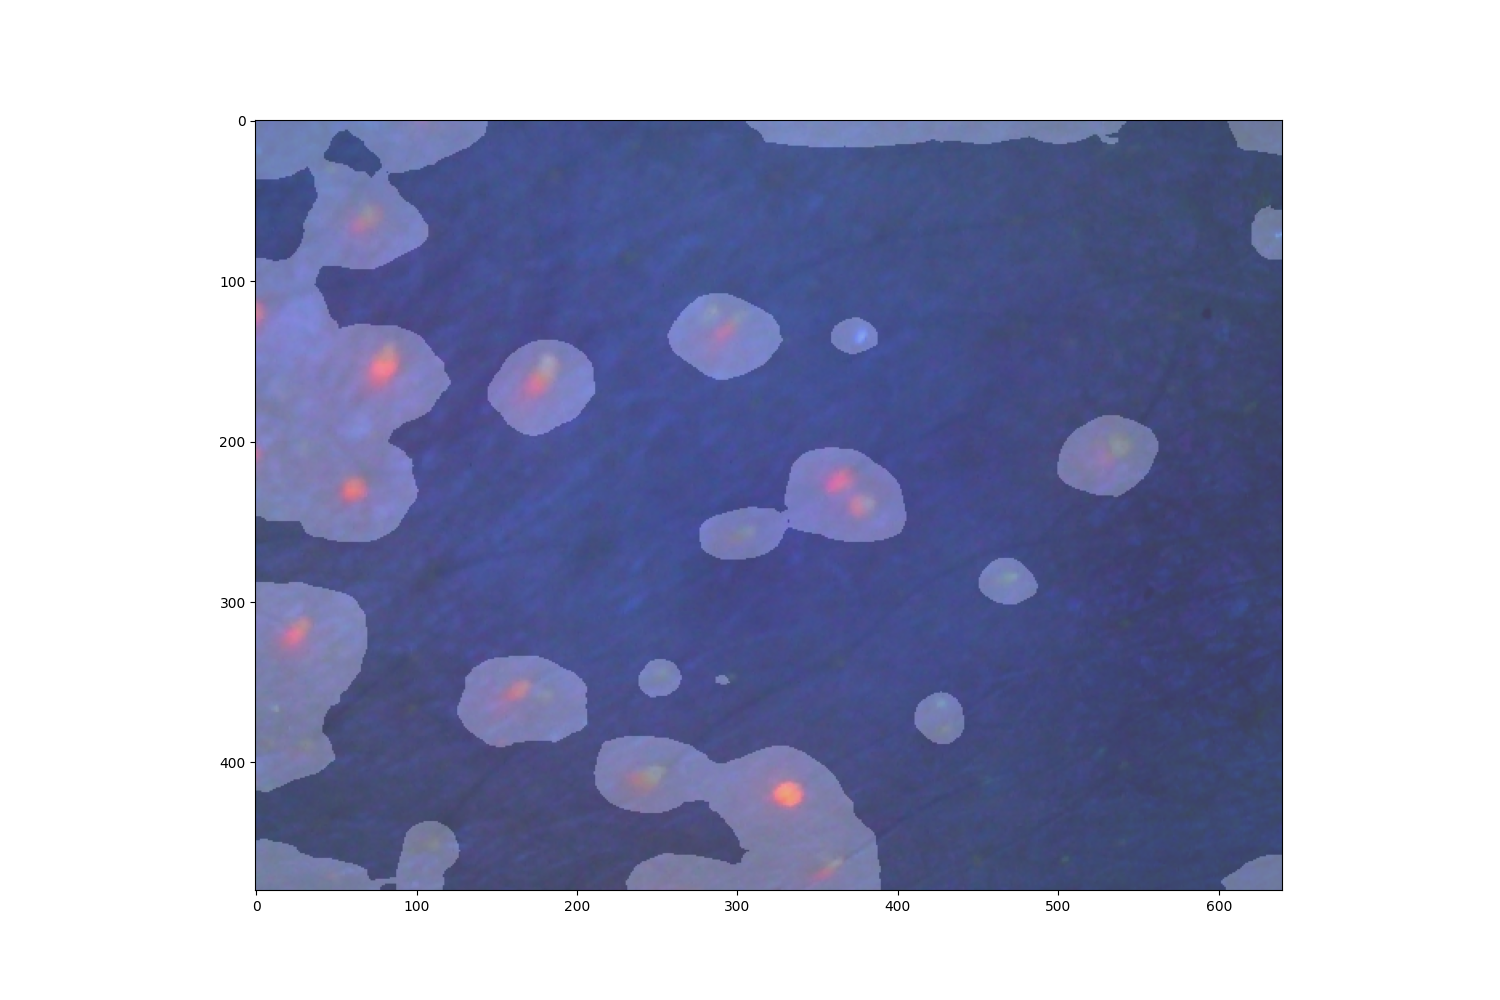
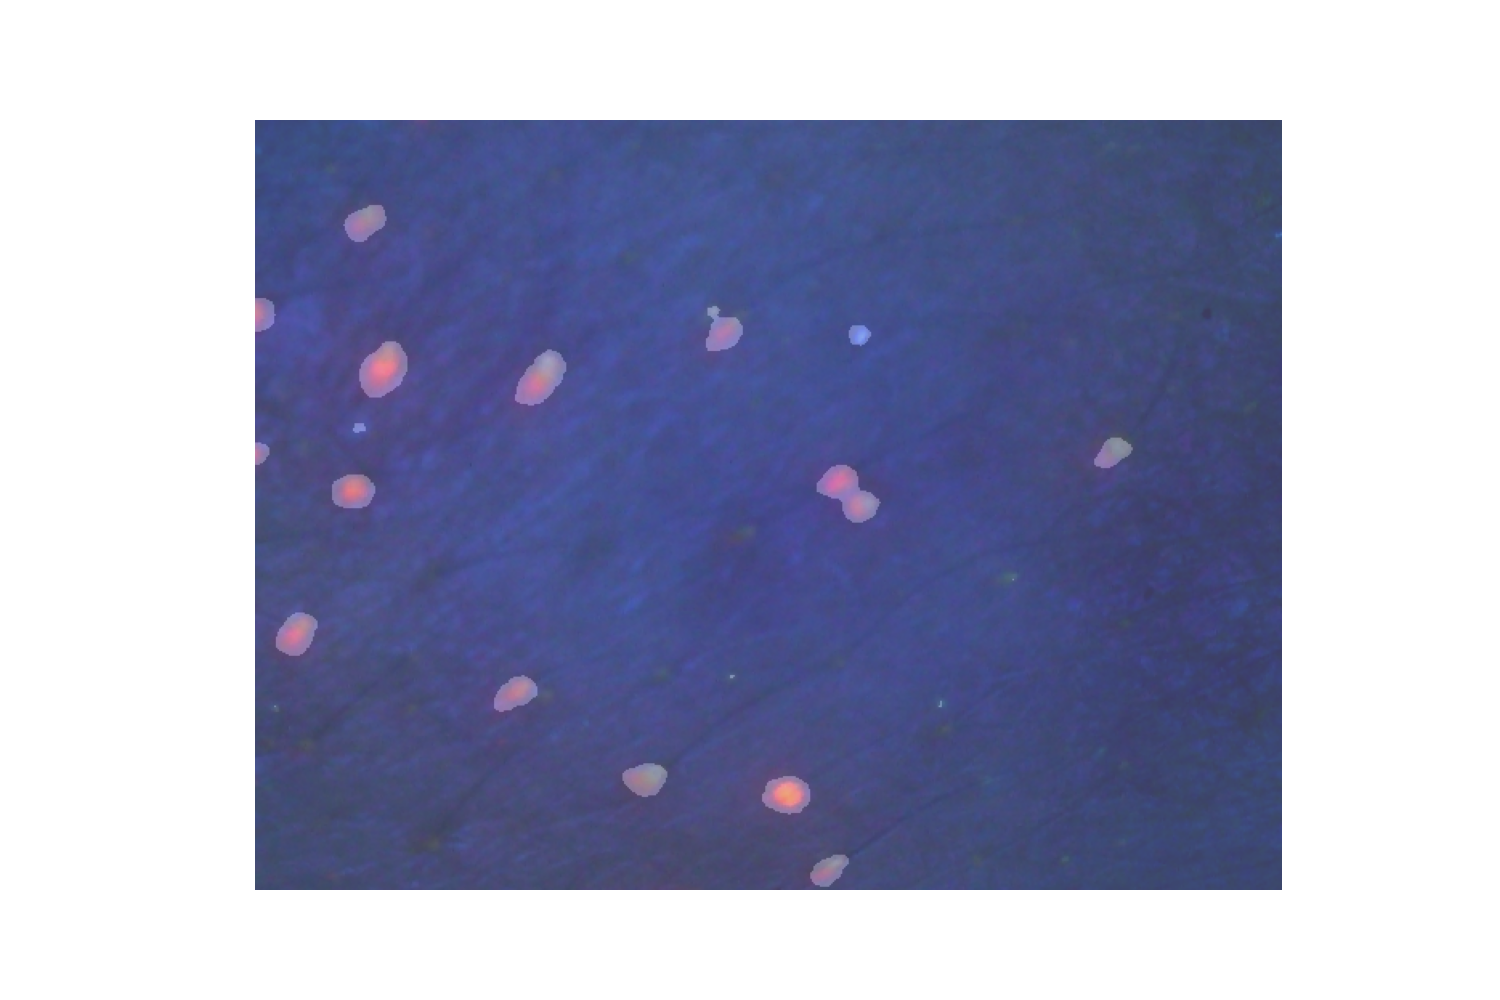
✨ Feat: update inference script for memory profiling and adjust model checkpoint; remove outdated output images

diff --git a/examples/run_semantic_segmentation_inference.py b/examples/run_semantic_segmentation_inference.py
@@ -1,52 +1,71 @@
+import os
+import resource
+
 import matplotlib.pyplot as plt
 import numpy as np
+import psutil
 import torch
 from PIL import Image
 from transformers import AutoImageProcessor, AutoModelForSemanticSegmentation
 
 SKIN_PALETTE = [
     # Skin palette that maps each class to RGB values.
-    [220, 220, 220],  # background
-    [120, 120, 120],  # skin
+    [120, 120, 120],  # background
+    [220, 220, 220],  # skin
 ]
 
-# Load image
-image = Image.open("examples/inputs/acne.jpg")
+# Profiling setup
+process = psutil.Process(os.getpid())
+print(f"Memory before loading model: {process.memory_info().rss / (1024**2):.2f} MB")
 
-# Load model and image processor
-device = "cuda"
-checkpoint = "checkpoints/segformer-b5-acne-reduce-labels"
+# Use CPU for inference
+device = "cpu"
+checkpoint = "checkpoints/segformer-b5-acne-reduce-labels-focal+dice"
 
-model = AutoModelForSemanticSegmentation.from_pretrained(checkpoint, device_map=device)
+# Load model and processor
+model = AutoModelForSemanticSegmentation.from_pretrained(checkpoint).to(device)
 image_processor = AutoImageProcessor.from_pretrained(checkpoint)
+print(f"Memory after loading model: {process.memory_info().rss / (1024**2):.2f} MB")
 
-# Run inference on image
+# Load and preprocess image
+image = Image.open("examples/inputs/acne.jpg")
 inputs = image_processor(images=[image], return_tensors="pt").to(device)
+print(f"Memory after preprocessing: {process.memory_info().rss / (1024**2):.2f} MB")
+
+# Run inference
 with torch.no_grad():
     outputs = model(**inputs)
     logits = outputs.logits
+print(f"Memory after inference: {process.memory_info().rss / (1024**2):.2f} MB")
 
+# Report peak RAM usage (ru_maxrss is in KB on Linux)
+peak_kb = resource.getrusage(resource.RUSAGE_SELF).ru_maxrss
+peak_mb = peak_kb / 1024
+print(f"Peak memory usage: {peak_mb:.2f} MB")
+
+# Post-process segmentation map
 predicted_segmentation_map = image_processor.post_process_semantic_segmentation(
     outputs, target_sizes=[image.size[::-1]]
 )[0]
 predicted_segmentation_map = predicted_segmentation_map.cpu().numpy()
-print(predicted_segmentation_map)
 
+# Colorize segmentation
+palette = np.array(SKIN_PALETTE)
 color_seg = np.zeros(
     (predicted_segmentation_map.shape[0], predicted_segmentation_map.shape[1], 3),
     dtype=np.uint8,
-)  # height, width, 3
-
-palette = np.array(SKIN_PALETTE)
+)
 for label, color in enumerate(palette):
     color_seg[predicted_segmentation_map == label, :] = color
-# Convert to BGR
+# Convert to BGR for OpenCV compatibility
 color_seg = color_seg[..., ::-1]
 
-# Show image + mask
+# Blend original and mask for visualization
 img = np.array(image) * 0.5 + color_seg * 0.5
 img = img.astype(np.uint8)
 
+# Save and display
 plt.figure(figsize=(15, 10))
 plt.imshow(img)
+plt.axis("off")
 plt.savefig("examples/outputs/acne_segmentation_B5.png")
